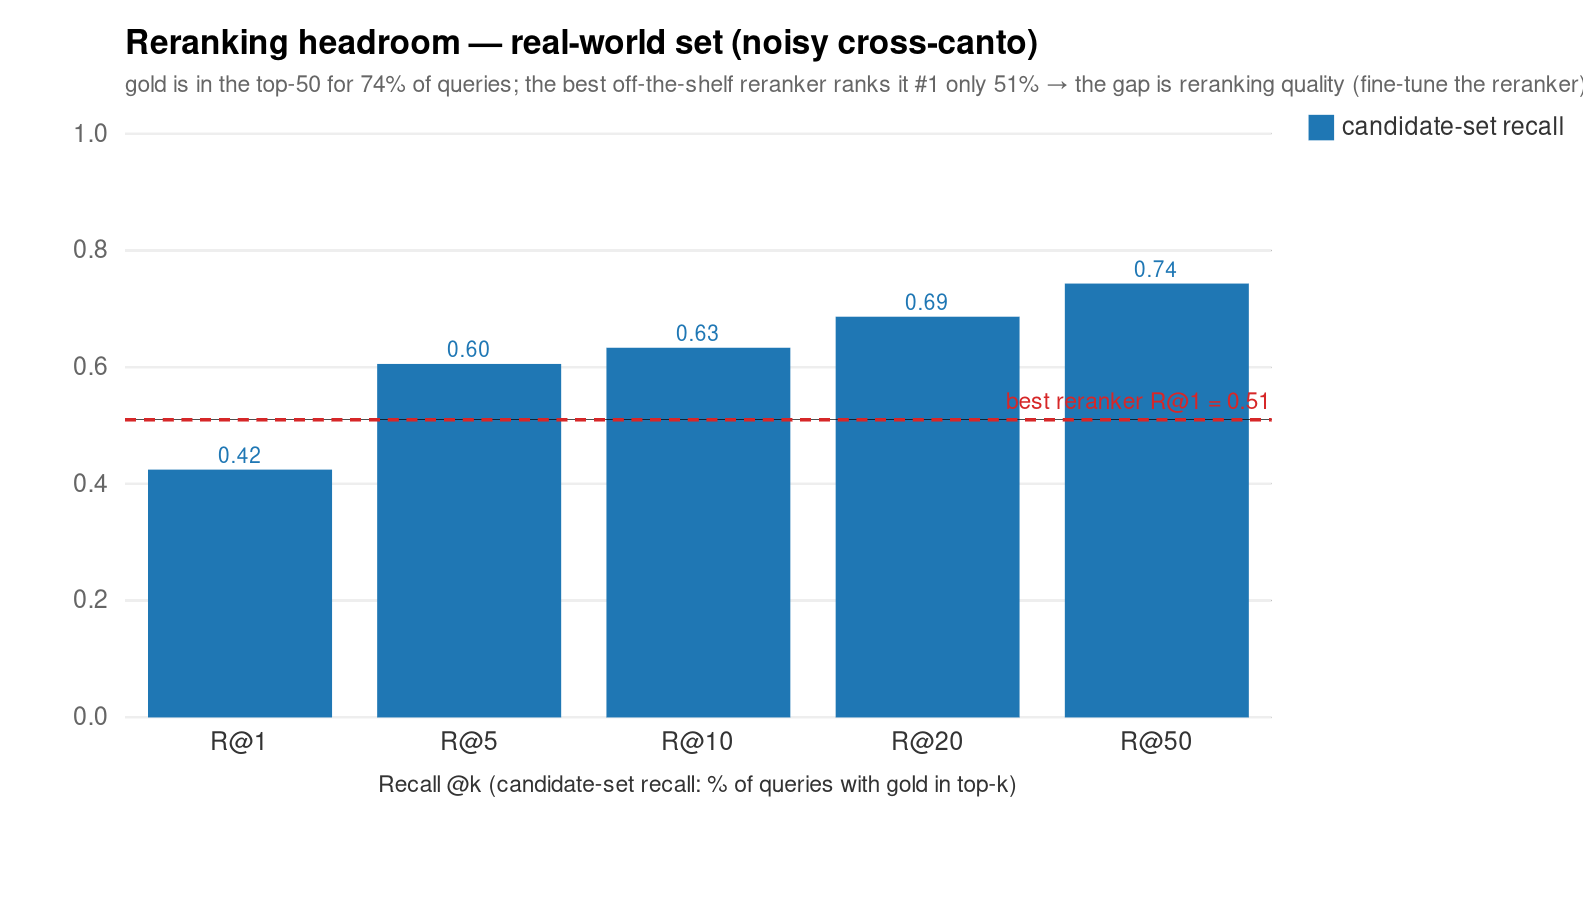
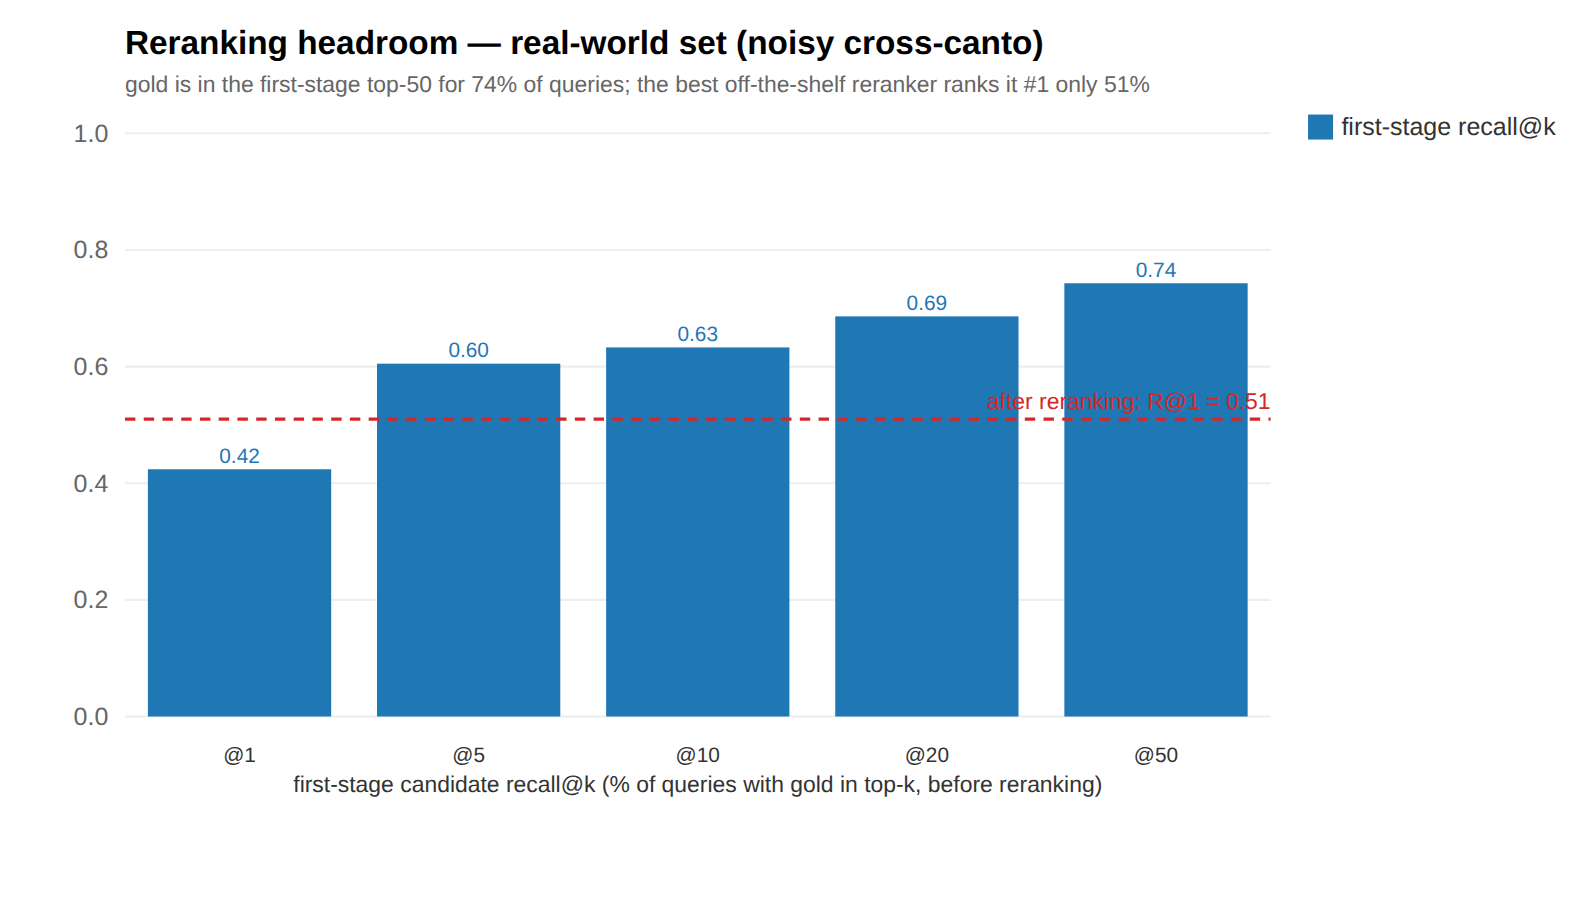
dante-retrieval post: clearer reranking-headroom figure + canto 4 in reality-gap chart
- relabel the reranking-headroom figure (first-stage recall@k bars vs the
  post-rerank R@1 line) to remove the two-meanings "R@1" ambiguity
- reality-gap summary chart now includes canto 4 ("cantos 4/5/26/30"); update the
  two textual "5/26/30" mentions to match
- remove the now-resolved "Canto 4 dropped from the summary chart" inconsistency

🤖 Generated with [Claude Code](https://claude.com/claude-code)

diff --git a/_writing/dante-retrieval-reality-gap.md b/_writing/dante-retrieval-reality-gap.md
@@ -154,11 +154,11 @@ substring of its indexed target).
 On this set, dense Recall@1 is **0.42**.
 
 <figure>
-  <img src="/assets/dante-retrieval-reality-gap/fig_realworld_progression.png" alt="Three color-coded bars labelled with their purpose: canto 1 (single canto, development) 0.92, cantos 5/26/30 (single canto, generalization probes) 0.71, noisy cross-canto (whole Inferno, real-world) 0.42. Title: 'The reality gap'.">
+  <img src="/assets/dante-retrieval-reality-gap/fig_realworld_progression.png" alt="Three color-coded bars labelled with their purpose: canto 1 (single canto, development) 0.92, cantos 4/5/26/30 (single canto, generalization probes) 0.71, noisy cross-canto (whole Inferno, real-world) 0.42. Title: 'The reality gap'.">
   <figcaption>Same retriever, three benchmarks built for different purposes.</figcaption>
 </figure>
 
-The earlier sets served their purposes: canto 1 as the high-fidelity development and productive within-canto reference, and the sets for 5/26/30 as generalization probes to test the system and de-risk the fame effect. The noisy cross-canto set is the one whose design priority was real-world conditions — how the retriever behaves when a user does not know the canto and is searching from partial, noisy memory. That is the number that dropped to 0.42.
+The earlier sets served their purposes: canto 1 as the high-fidelity development and productive within-canto reference, and the sets for 4/5/26/30 as generalization probes to test the system and de-risk the fame effect. The noisy cross-canto set is the one whose design priority was real-world conditions — how the retriever behaves when a user does not know the canto and is searching from partial, noisy memory. That is the number that dropped to 0.42.
 
 ## 4. What actually moved the real number
 
@@ -256,7 +256,7 @@ Before closing, several methodological weaknesses and inconsistencies in the cur
 
 - **Language Detection Assumption**: The query-aware fusion sets BM25's weight to zero on English queries based on a deliberately lightweight heuristic (`fusion.py:detect_language`) — a count of Italian vs English function words plus an Italian-accent signal, with an `und` (undetermined) fallback when the two are tied. This is brittle exactly where the real-world set is hardest: on short, heavily misspelled, or blended Anglo-Italian queries the function-word signal is thin, so the detector lands in `und` or picks the wrong branch and BM25 is weighted wrongly. Crucially, the detector's accuracy on the actual eval queries is never measured, so the reported query-aware fusion gains on R@5/MRR rest on an unverified assumption and may be overstated. A more robust language/script detector is on the to-do list (see *What's next*).
 
-- **Heavy reliance on synthetic queries, with limited ecological validity**: Every eval query is machine-generated — agent prompt + gating, and the cross-canto set by a "Grok Build" model — then passed through a decontamination audit (no query is an exact match or substring of its indexed target). The audit rules out trivial leakage, but it does not guarantee the queries *look like real ones*. LLM-written queries tend to be cleaner and more grammatical than how people actually half-remember verses: severe misspellings, distant memories blended across episodes, non-native paraphrases, translation and cultural artifacts. So performance on this set may be optimistic. No human-curated validation set, and no comparison against real query logs, is available to check that the synthetic distribution matches real users.
+- **Heavy reliance on synthetic queries, with limited ecological validity**: Every eval query is machine-generated — agent prompt + gating, and the cross-canto set by Grok (model "Grok Build") — then passed through a decontamination audit (no query is an exact match or substring of its indexed target). The audit rules out trivial leakage, but it does not guarantee the queries *look like real ones*. LLM-written queries tend to be cleaner and more grammatical than how people actually half-remember verses: severe misspellings, distant memories blended across episodes, non-native paraphrases, translation and cultural artifacts. So performance on this set may be optimistic. No human-curated validation set, and no comparison against real query logs, is available to check that the synthetic distribution matches real users.
 
 - **Handling of Thematic Ambiguity**: The system categorizes only 10 out of 210 queries as "ambiguous (multi-gold)". Given the nature of thematic searches (e.g., "I felt lost"), there are likely many more valid matching tercets across the poem than a single designated gold standard, potentially making the Recall@1 metric an overly harsh penalty for semantic searches.
 
@@ -277,8 +277,6 @@ Before closing, several methodological weaknesses and inconsistencies in the cur
 **Inconsistencies**
 
 - **Contradictory Architecture Descriptions**: The introduction defines the dense retrieval index as running specifically "over translations and paraphrases". However, Section 2 notes that one of the representation fixes was "Indexing the original `t.dante` as a dense passage". The introductory summary does not accurately reflect the updated architecture used for the final benchmarks.
-
-- **Canto 4 dropped from the summary chart**: §3 runs the generalization probes on cantos 4, 5, 26 and 30 — and the per-canto figure shows all four — but the "reality gap" summary chart labels its middle bar only "cantos 5/26/30" and averages just those three. Canto 4 is silently excluded from that one figure.
 
 **Note — entity contexts.** The per-character descriptive contexts were not hand-written. They were extracted by parsing
 the English Wikipedia [List of cultural references in the Divine Comedy](https://en.wikipedia.org/wiki/List_of_cultural_references_in_the_Divine_Comedy),
